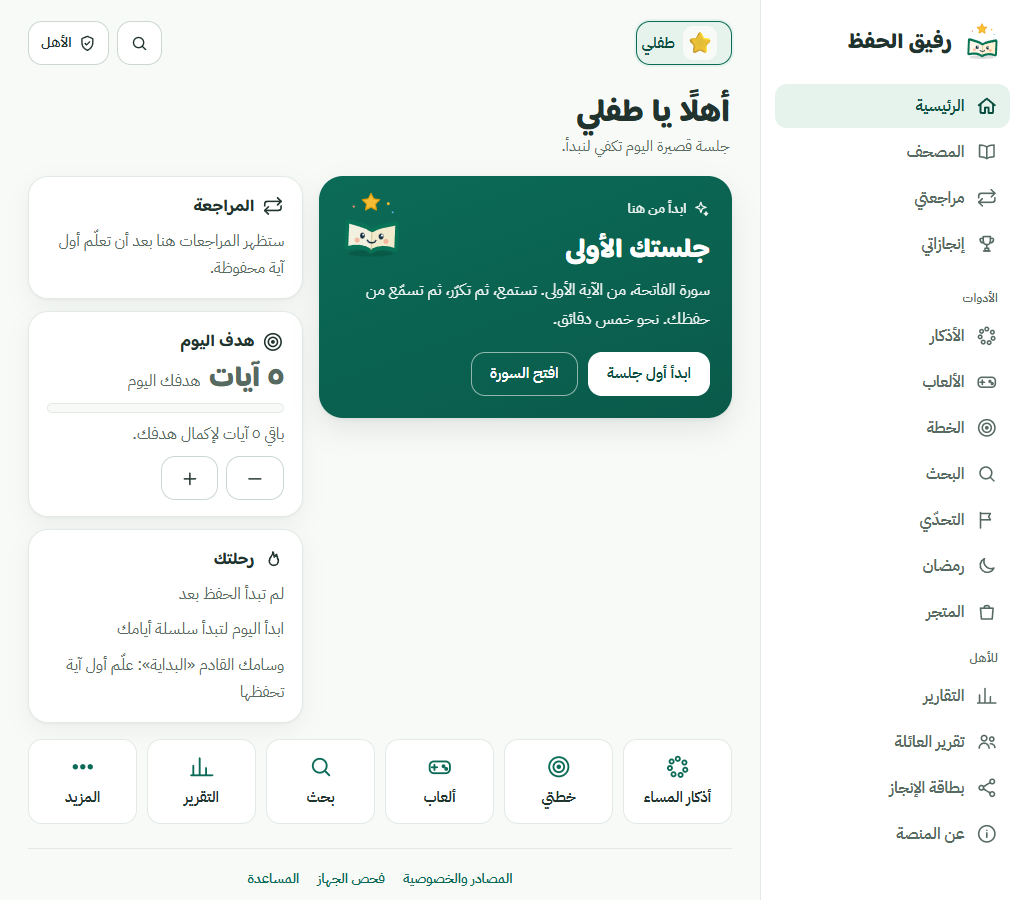
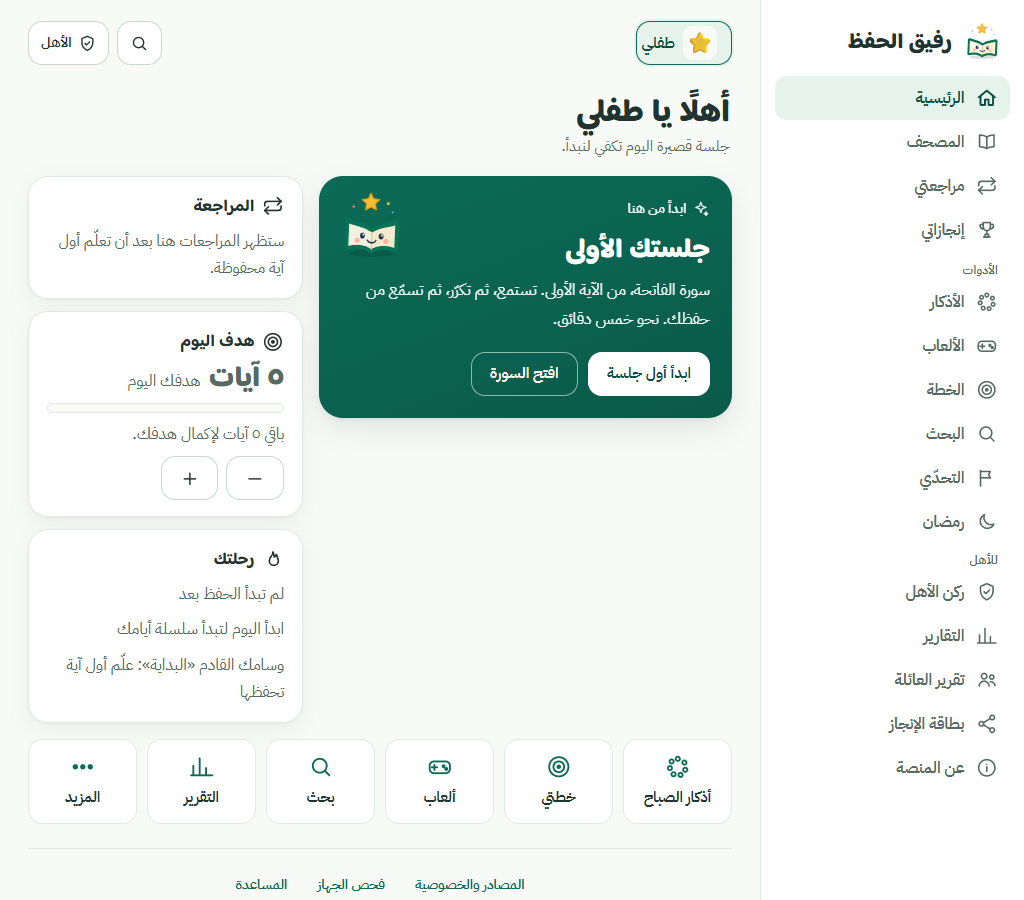
Remove functional emoji, mobile preview image, parents tests, a11y and e2e updated for the new pages

diff --git a/src/challenge.js b/src/challenge.js
@@ -1,7 +1,7 @@
 // The weekly challenge: one simple goal per week (weeks start on Saturday), measured from what the site already records
 // for the child (activity log and adhkar progress). Finishing it once gives bonus game stars and a medal. A "rest day"
 // (one per week) keeps the streak alive when the child needs a day off. Nothing here is religious text.
-import { $, AR, day, el, nujum, shiftDay } from './util.js';
+import { $, AR, day, el, nujum, shiftDay, icon } from './util.js';
 import { activeKid, kids, addGameStars, markWeekDone, weekDone, weeksDone, weekStartOf, restUsedThisWeek, restDays, useRestDay, streakNow, famDone, markFamilyWeek } from './state.js';
 import { celebrate } from './motion.js';
 
@@ -22,17 +22,17 @@ export function checkFamilyGoal() {
   const ws = weekStartOf(day()), g = familyGoalOf(kids(), ws);
   if (!g.on || !g.reached || famDone(ws)) return false;
   if (!markFamilyWeek(ws)) return false;
-  celebrate('ما شاء الله، حقّقتم هدف الأسرة معًا 🤝 ونلتم وسام «أسرة متعاونة»', true);
+  celebrate('ما شاء الله، حقّقتم هدف الأسرة معًا ونلتم وسام «أسرة متعاونة»', true);
   return true;
 }
 
 /** n: the target for readers, young: the target for young children. */
 export const CHALLENGES = [
-  { id: 'ayat', icon: '📖', title: n => 'احفظ ' + n + ' آيات جديدة', measure: 'a', n: 10, young: 5, unit: 'آية' },
-  { id: 'review', icon: '🔁', title: n => 'راجع ' + n + ' سور', measure: 'r', n: 3, young: 2, unit: 'مراجعة' },
-  { id: 'sabah', icon: '🌅', title: n => 'أنهِ أذكار الصباح في ' + n + ' أيام', measure: 'sabah', n: 5, young: 3, unit: 'يوم' },
-  { id: 'games', icon: '🎮', title: n => 'اجمع ' + n + ' نجمة في الألعاب', measure: 'g', n: 20, young: 10, unit: 'نجمة' },
-  { id: 'masaa', icon: '🌙', title: n => 'أنهِ أذكار المساء في ' + n + ' أيام', measure: 'masaa', n: 5, young: 3, unit: 'يوم' },
+  { id: 'ayat', icon: 'book', title: n => 'احفظ ' + n + ' آيات جديدة', measure: 'a', n: 10, young: 5, unit: 'آية' },
+  { id: 'review', icon: 'repeat', title: n => 'راجع ' + n + ' سور', measure: 'r', n: 3, young: 2, unit: 'مراجعة' },
+  { id: 'sabah', icon: 'sunrise', title: n => 'أنهِ أذكار الصباح في ' + n + ' أيام', measure: 'sabah', n: 5, young: 3, unit: 'يوم' },
+  { id: 'games', icon: 'gamepad', title: n => 'اجمع ' + n + ' نجمة في الألعاب', measure: 'g', n: 20, young: 10, unit: 'نجمة' },
+  { id: 'masaa', icon: 'moon', title: n => 'أنهِ أذكار المساء في ' + n + ' أيام', measure: 'masaa', n: 5, young: 3, unit: 'يوم' },
 ];
 
 /** The challenge of the week that starts on ws (the same one for everybody, rotating through the list). */
@@ -61,7 +61,7 @@ export function checkChallenge() {
   if (weekDone(ws) || progressOf(ch, k, ws) < targetOf(ch, k)) return false;
   if (!markWeekDone(ws)) return false;
   addGameStars(BONUS_STARS);
-  celebrate('ما شاء الله، أنهيتَ تحدّي الأسبوع 🏆 ونلتَ ' + nujum(BONUS_STARS) + ' للألعاب', true);
+  celebrate('ما شاء الله، أنهيتَ تحدّي الأسبوع ونلتَ ' + nujum(BONUS_STARS) + ' للألعاب', true);
   return true;
 }
 
@@ -71,26 +71,26 @@ export function renderChallenge() {
   const ws = weekStartOf(day()), ch = challengeOf(ws), n = targetOf(ch, k), v = progressOf(ch, k, ws), done = weekDone(ws) || v >= n;
 
   const card = el('section', 'chcard' + (done ? ' done' : ''));
-  const ic = el('span', 'chicon', ch.icon); ic.setAttribute('aria-hidden', 'true');
+  const ic = el('span', 'chicon'); ic.appendChild(icon(ch.icon)); ic.setAttribute('aria-hidden', 'true');
   card.append(ic, el('h2', '', 'تحدّي هذا الأسبوع'), el('p', 'chtitle', ch.title(AR(n))));
   const bar = el('div', 'bar'), fill = el('i'); fill.style.width = Math.round(v / n * 100) + '%'; bar.appendChild(fill);
   bar.setAttribute('role', 'progressbar'); bar.setAttribute('aria-valuemin', '0'); bar.setAttribute('aria-valuemax', String(n)); bar.setAttribute('aria-valuenow', String(v)); bar.setAttribute('aria-label', 'تقدّم التحدّي');
-  card.append(bar, el('p', done ? 'good' : 'note', done ? 'أنهيتَ التحدّي، أحسنت! 🏆' : AR(v) + ' من ' + AR(n) + ' ' + ch.unit + '. الجائزة: ' + nujum(BONUS_STARS) + ' للألعاب ووسام.'));
+  card.append(bar, el('p', done ? 'good' : 'note', done ? 'أنهيتَ التحدّي، أحسنت!' : AR(v) + ' من ' + AR(n) + ' ' + ch.unit + '. الجائزة: ' + nujum(BONUS_STARS) + ' للألعاب ووسام.'));
   const end = shiftDay(ws, 6), fmt = d => new Date(d + 'T12:00:00').toLocaleDateString('ar-EG', { day: 'numeric', month: 'long' });
   card.appendChild(el('p', 'note', 'من ' + fmt(ws) + ' إلى ' + fmt(end) + '. يتجدّد كل سبت.'));
   box.appendChild(card);
 
   const w = weeksDone();
-  box.appendChild(el('p', 'chweeks', w ? '🏆 أنهيتَ ' + (w === 1 ? 'تحدّي أسبوع واحد' : 'تحدّي ' + AR(w) + ' أسابيع') + ' حتى الآن.' : 'لم تُنهِ أي تحدٍّ بعد، ابدأ من هذا الأسبوع!'));
+  box.appendChild(el('p', 'chweeks', w ? 'أنهيتَ ' + (w === 1 ? 'تحدّي أسبوع واحد' : 'تحدّي ' + AR(w) + ' أسابيع') + ' حتى الآن.' : 'لم تُنهِ أي تحدٍّ بعد، ابدأ من هذا الأسبوع!'));
 
   // rest day
   const rest = el('section', 'chcard rest');
-  const ri = el('span', 'chicon', '🛌'); ri.setAttribute('aria-hidden', 'true');
+  const ri = el('span', 'chicon'); ri.appendChild(icon('bed')); ri.setAttribute('aria-hidden', 'true');
   rest.append(ri, el('h2', '', 'يوم راحة'), el('p', 'note', 'تعبان أو مسافر؟ يوم راحة واحد في الأسبوع يحافظ على أيامك المتتالية فلا تنقطع إن فاتك يوم.'));
-  rest.appendChild(el('p', '', '🔥 أيامك المتتالية الآن: ' + AR(streakNow())));
+  rest.appendChild(el('p', '', 'أيامك المتتالية الآن: ' + AR(streakNow())));
   const msg = el('p', 'note'); msg.setAttribute('role', 'status');
   const used = restUsedThisWeek(), today = !!restDays()[day()];
-  const b = el('button', 'btn' + (used ? '' : ' primary'), today ? 'اليوم يوم راحة ✓' : used ? 'استخدمتَ يوم الراحة هذا الأسبوع' : 'اجعل اليوم يوم راحة');
+  const b = el('button', 'btn' + (used ? '' : ' primary'), today ? 'اليوم يوم راحة' : used ? 'استخدمتَ يوم الراحة هذا الأسبوع' : 'اجعل اليوم يوم راحة');
   b.type = 'button'; b.disabled = used;
   b.addEventListener('click', () => { if (useRestDay()) { msg.textContent = 'تم. اليوم يوم راحة، وأيامك المتتالية محفوظة.'; renderChallenge() } });
   rest.append(b, msg);

diff --git a/tests/parents.test.js b/tests/parents.test.js
@@ -1,0 +1,103 @@
+import { describe, it, expect, afterEach, vi } from 'vitest';
+import { boot, today, memoriseAll } from './helpers.js';
+
+afterEach(() => { vi.useRealTimers(); vi.unstubAllGlobals() });
+
+const DOM = '<div id="kids"></div><button id="parentBtn"></button><button id="parentsLock"></button><dialog id="gate"><form id="gateForm"><p id="gateQ"></p><input id="gateA"><p id="gateErr" hidden></p></form></dialog><nav id="parentTabs"></nav><div id="parentBody"></div>';
+async function page(setup) {
+  today('2026-05-12');
+  HTMLDialogElement.prototype.showModal = function () { this.setAttribute('open', '') };
+  HTMLDialogElement.prototype.close = function () { this.removeAttribute('open') };
+  document.body.innerHTML = DOM; sessionStorage.clear();
+  const { state, Q } = await boot();
+  if (setup) setup(state, Q);
+  const p = await import('../src/parents.js'), pin = await import('../src/pin.js');
+  p.initParents();
+  return { state, Q, p, pin };
+}
+const tab = id => document.querySelector('#parentTabs [data-tab="' + id + '"]');
+const body = () => document.getElementById('parentBody');
+
+describe('the gate', () => {
+  it('keeps the page closed until it is passed, and asks a multiplication question when there is no PIN', async () => {
+    const { p } = await page();
+    expect(p.showParents()).toBe(false);
+    expect(document.getElementById('gate').hasAttribute('open')).toBe(true);
+    expect(document.getElementById('gateQ').textContent).toMatch(/×/);
+    expect(document.getElementById('gateA').type).toBe('number');
+  });
+
+  it('opens after the right answer and stays open for a while, a wrong answer shows an error', async () => {
+    const { p, pin } = await page();
+    p.showParents();
+    const nums = document.getElementById('gateQ').textContent.match(/[٠-٩]+/g).map(s => +s.replace(/[٠-٩]/g, d => '٠١٢٣٤٥٦٧٨٩'.indexOf(d)));
+    document.getElementById('gateA').value = String(nums[0] * nums[1] + 1);
+    document.getElementById('gateForm').dispatchEvent(new Event('submit', { cancelable: true }));
+    await Promise.resolve(); await Promise.resolve();
+    expect(document.getElementById('gateErr').hidden).toBe(false); expect(pin.parentsOpen()).toBe(false);
+    document.getElementById('gateA').value = String(nums[0] * nums[1]);
+    document.getElementById('gateForm').dispatchEvent(new Event('submit', { cancelable: true }));
+    await Promise.resolve(); await Promise.resolve();
+    expect(pin.parentsOpen()).toBe(true);
+    expect(p.showParents()).toBe(true);
+  });
+
+  it('asks for the PIN, as a password field, when one is set', async () => {
+    const { p, pin } = await page();
+    await pin.setPin('2468');
+    p.showParents();
+    expect(document.getElementById('gateQ').textContent).toContain('رمز');
+    expect(document.getElementById('gateA').type).toBe('password');
+  });
+});
+
+describe('the hub', () => {
+  const open = async setup => { const r = await page(setup); r.pin.unlockParents(); expect(r.p.showParents()).toBe(true); return r };
+
+  it('has five sections and shows one at a time', async () => {
+    await open();
+    expect([...document.querySelectorAll('#parentTabs button')].map(b => b.dataset.tab)).toEqual(['children', 'track', 'settings', 'downloads', 'data']);
+    expect(tab('children').getAttribute('aria-pressed')).toBe('true');
+    tab('track').click();
+    expect(tab('track').getAttribute('aria-pressed')).toBe('true'); expect(body().textContent).toContain('أرقام حقيقية');
+  });
+
+  it('adds a child and deletes one only after asking', async () => {
+    const { state } = await open();
+    [...body().querySelectorAll('button')].find(b => b.textContent.includes('إضافة طفل')).click();
+    expect(state.kids()).toHaveLength(2);
+    vi.stubGlobal('confirm', vi.fn(() => false));
+    const del = () => [...body().querySelectorAll('button')].find(b => b.textContent.includes('حذف الملف'));
+    del().click(); expect(state.kids()).toHaveLength(2);
+    vi.stubGlobal('confirm', vi.fn(() => true)); del().click(); expect(state.kids()).toHaveLength(1);
+  });
+
+  it('shows each child\'s own real numbers, and nothing for a child who has done nothing', async () => {
+    const { state, Q } = await open();
+    memoriseAll(state, Q, 112); state.save();
+    state.addKid({ name: 'نور', icon: '🌸', mode: 'young' });
+    tab('track').click();
+    const cards = [...body().querySelectorAll('.kcard')];
+    expect(cards).toHaveLength(2);
+    expect(cards[0].textContent).toContain('٤'); expect(cards[0].textContent).toContain('١ من ١١٤');
+    expect(cards[1].textContent).toContain('لا توجد خطة');
+    expect(cards[1].querySelector('dd').textContent).toBe('٠');
+  });
+
+  it('names go in as plain text', async () => {
+    await open(st => st.updateKid(st.activeKid().id, { name: '<i>x</i>', icon: '🌸', mode: 'reader' }));
+    expect(body().querySelector('i')).toBeNull(); expect(body().textContent).toContain('<i>x</i>');
+  });
+
+  it('the settings section can set a PIN and says what it is for', async () => {
+    const { pin } = await open();
+    tab('settings').click();
+    expect(body().textContent).toContain('ليس حسابًا');
+    document.getElementById('pinNew').value = '12';
+    [...body().querySelectorAll('button')].find(b => b.textContent === 'اضبط الرمز').click();
+    expect(body().textContent).toContain('من ٤ إلى ٦'); expect(pin.hasPin()).toBe(false);
+    document.getElementById('pinNew').value = '4821';
+    [...body().querySelectorAll('button')].find(b => b.textContent === 'اضبط الرمز').click();
+    await vi.waitFor(() => expect(pin.hasPin()).toBe(true));
+  });
+});

diff --git a/src/ramadan.js b/src/ramadan.js
@@ -2,7 +2,7 @@
 // fills in by itself from what the child did each day (a new ayah, a review, adhkar or a game), and medals reward steadiness.
 // The calendar is calculated, so a country that sights the moon can differ by a day: a parent can shift it by one day.
 // Nothing here is religious text; it is a calendar and a habit tracker.
-import { $, AR, day, el, shiftDay, charImg } from './util.js';
+import { $, AR, day, el, shiftDay, charImg, icon } from './util.js';
 import { activeKid, setRamadanDays } from './state.js';
 
 const SHIFT_KEY = 'hifz-hijri-shift-v1';
@@ -83,10 +83,10 @@ export function renderRamadan() {
   const fmtDate = iso => new Date(iso + 'T12:00:00').toLocaleDateString('ar-EG', { day: 'numeric', month: 'long' });
 
   const card = el('section', 'ramcard');
-  const ic = el('span', 'chicon', '🌙'); ic.setAttribute('aria-hidden', 'true');
+  const ic = el('span', 'chicon'); ic.appendChild(icon('moon')); ic.setAttribute('aria-hidden', 'true');
   card.append(ic, el('h2', '', w.phase === 'during' ? 'اليوم ' + AR(w.dayNo) + ' من رمضان' : w.phase === 'before' ? 'رمضان بعد ' + (w.daysUntil === 1 ? 'يوم واحد' : w.daysUntil === 2 ? 'يومين' : AR(w.daysUntil) + (w.daysUntil <= 10 ? ' أيام' : ' يومًا')) : 'انتهى رمضان'));
   card.appendChild(el('p', 'note', 'اليوم: ' + hijriText(todayH) + '. رمضان ' + AR(w.year).replace(/٬/g, '') + ' هـ من ' + fmtDate(w.start) + ' إلى ' + fmtDate(w.end) + ' (بحسب التقويم المحسوب).'));
-  if (w.phase === 'after') card.appendChild(el('p', 'good', 'كل عام وأنتم بخير! 🌙'));
+  if (w.phase === 'after') card.appendChild(el('p', 'good', 'كل عام وأنتم بخير!'));
   box.appendChild(card);
 
   if (w.phase !== 'before') {
@@ -98,7 +98,7 @@ export function renderRamadan() {
       const word = p.state === 'done' ? 'أنجزتَ نشاطًا' : p.state === 'missed' ? 'لم يُسجَّل نشاط' : p.state === 'today' ? 'اليوم' : 'لم يحن بعد';
       li.setAttribute('aria-label', 'اليوم ' + AR(p.no) + ': ' + word); if (p.state === 'done') li.appendChild(el('span', 'ramtick', '✓')); grid.appendChild(li);
     });
-    sec.append(grid, el('p', 'chweeks', '🌙 أنجزتَ ' + AR(t.active) + ' من ' + AR(w.days.length) + ' يومًا.'));
+    sec.append(grid, el('p', 'chweeks', 'أنجزتَ ' + AR(t.active) + ' من ' + AR(w.days.length) + ' يومًا.'));
     sec.appendChild(el('p', 'note', 'الأوسمة: «رمضان معنا» عند ' + AR(10) + ' أيام، و«بطل رمضان» عند ' + AR(25) + ' يومًا.'));
     box.appendChild(sec);
   } else {
@@ -122,7 +122,7 @@ export function ramadanLine() {
   const k = activeKid(), w = ramadanWindow(); if (!k || !showBanner(w)) return null;
   const a = el('a', 'rambanner'); a.href = '#/ramadan';
   a.append(charImg('fanous', 'mini'));
-  const t = el('span', ''), b = el('b', '', w.phase === 'during' ? 'رمضان كريم 🌙 اليوم ' + AR(w.dayNo) + ' من ' + AR(w.days.length) : w.phase === 'before' ? 'يقترب رمضان 🌙 بعد ' + AR(w.daysUntil) + (w.daysUntil === 1 ? ' يوم' : w.daysUntil <= 10 ? ' أيام' : ' يومًا') : 'كل عام وأنتم بخير 🌙');
+  const t = el('span', ''), b = el('b', '', w.phase === 'during' ? 'رمضان كريم، اليوم ' + AR(w.dayNo) + ' من ' + AR(w.days.length) : w.phase === 'before' ? 'يقترب رمضان، بعد ' + AR(w.daysUntil) + (w.daysUntil === 1 ? ' يوم' : w.daysUntil <= 10 ? ' أيام' : ' يومًا') : 'كل عام وأنتم بخير');
   t.append(b, el('small', '', w.phase === 'before' ? 'استعدّ لتحدّي رمضان' : 'افتح تحدّي رمضان'));
   a.appendChild(t); return a;
 }

diff --git a/src/diagnose.js b/src/diagnose.js
@@ -6,7 +6,8 @@ import { loadAdhkar } from './data.js';
 import { ayahUrl } from './player.js';
 
 const BUILD = typeof __BUILD__ !== 'undefined' ? __BUILD__ : 'dev';
-const MARK = { ok: '✅', warn: '⚠', bad: '❌' };
+const MARK = { ok: 'سليم', warn: 'تنبيه', bad: 'مشكلة' };       // words, for the copied report
+const GLYPH = { ok: '✓', warn: '!', bad: '✕' };               // plain marks on the screen (the colour is never the only sign)
 
 /** Runs every check. env can be replaced in tests; each check is wrapped so one failing never stops the others. */
 export async function runChecks(env = {}) {
@@ -87,7 +88,7 @@ export async function runChecks(env = {}) {
 }
 
 export function reportText(rows, ua = '') {
-  return ['فحص جهاز: رفيق الحفظ', ...rows.map(r => MARK[r.status] + ' ' + r.label + ': ' + r.detail), ua ? 'المتصفح: ' + ua : ''].filter(Boolean).join('\n');
+  return ['فحص جهاز: رفيق الحفظ', ...rows.map(r => MARK[r.status] + ' · ' + r.label + ': ' + r.detail), ua ? 'المتصفح: ' + ua : ''].filter(Boolean).join('\n');
 }
 
 /** Plays the first ayah of Al-Fatiha for a moment and says whether sound came out. */
@@ -109,7 +110,7 @@ export function initCheck() {
   const paint = rows => {
     rowsBox.textContent = '';
     rows.forEach(r => {
-      const li = el('li', 'chkrow ' + r.status), m = el('span', 'chkmark', MARK[r.status]); m.setAttribute('aria-hidden', 'true');
+      const li = el('li', 'chkrow ' + r.status), m = el('span', 'chkmark', GLYPH[r.status]); m.setAttribute('aria-hidden', 'true');
       const t = el('div'); t.append(el('b', '', r.label), el('span', '', r.detail));
       li.append(m, el('span', 'sr', r.status === 'ok' ? 'سليم: ' : r.status === 'warn' ? 'تنبيه: ' : 'مشكلة: '), t); rowsBox.appendChild(li);
     });
@@ -118,11 +119,11 @@ export function initCheck() {
     run.disabled = true; msg.textContent = 'جارٍ الفحص…';
     last = await runChecks(); paint(last); run.disabled = false; copy.hidden = false;
     const bad = last.filter(r => r.status === 'bad').length, warn = last.filter(r => r.status === 'warn').length;
-    msg.textContent = bad ? 'وُجدت ' + AR(bad) + ' مشكلة. اقرأ التفاصيل أعلاه.' : warn ? 'لا مشاكل، وهناك ' + AR(warn) + ' تنبيه للتحسين.' : 'كل شيء سليم ✅';
+    msg.textContent = bad ? 'وُجدت ' + AR(bad) + ' مشكلة. اقرأ التفاصيل أعلاه.' : warn ? 'لا مشاكل، وهناك ' + AR(warn) + ' تنبيه للتحسين.' : 'كل شيء سليم';
   });
   $('chkAudio').addEventListener('click', async () => {
     msg.textContent = 'جارٍ اختبار الصوت…';
-    const r = await testAudio(); msg.textContent = (r.ok ? '✅ ' : '❌ ') + r.why;
+    const r = await testAudio(); msg.textContent = (r.ok ? 'سليم: ' : 'مشكلة: ') + r.why;
     last = last.filter(x => x.id !== 'audio'); last.push({ id: 'audio', label: 'تشغيل التلاوة', status: r.ok ? 'ok' : 'bad', detail: r.why }); paint(last); copy.hidden = false;
   });
   copy.addEventListener('click', async () => {

diff --git a/src/offlineui.js b/src/offlineui.js
@@ -1,5 +1,5 @@
 // The screens for downloading recitations: a box under the surah (download, progress, remove) and the list in the parent corner.
-import { $, AR, el } from './util.js';
+import { $, AR, el, icon } from './util.js';
 import { Q } from './data.js';
 import { currentReciter, reciterLabel } from './player.js';
 import { supported, estimateBytes, isBig, mb, downloadedInfo, downloadSurah, removeSurah, removeAll, listDownloads, totalBytes } from './offline.js';
@@ -19,7 +19,7 @@ export function renderOffline(id) {
   if (!supported() || !Q.length || !id) { box.hidden = true; return }
   box.hidden = false;
   const reciter = currentReciter(), who = reciterLabel(reciter), c = Q[id - 1];
-  box.appendChild(el('h2', '', '🎧 الاستماع بدون إنترنت'));
+  { const h = el('h2'); h.append(icon('headphones'), 'الاستماع بدون إنترنت'); box.appendChild(h) }
   const msg = el('p', 'note'); msg.setAttribute('role', 'status');
   const acts = el('div', 'acts');
 
@@ -34,7 +34,7 @@ export function renderOffline(id) {
 
   const info = downloadedInfo(id, reciter);
   if (info) {
-    box.appendChild(el('p', 'good', '✅ سورة ' + c.n + ' بصوت ' + who + ' محمّلة (' + AR(mb(info.bytes)) + ' م.ب.) وتعمل بدون إنترنت.'));
+    box.appendChild(el('p', 'good', 'سورة ' + c.n + ' بصوت ' + who + ' محمّلة (' + AR(mb(info.bytes)) + ' م.ب.) وتعمل بدون إنترنت.'));
     const del = el('button', 'btn', 'احذف التنزيل'); del.type = 'button';
     del.addEventListener('click', async () => { await removeSurah(id, reciter); renderOffline(id); const m = $('offline').querySelector('[role=status]'); if (m) m.textContent = 'تم حذف التنزيل.' });
     acts.appendChild(del); box.append(acts, msg); return;
@@ -42,7 +42,7 @@ export function renderOffline(id) {
 
   const bytes = estimateBytes(id, reciter);
   box.appendChild(el('p', 'note', 'نزّل سورة ' + c.n + ' بصوت ' + who + ' لتسمعها في أي مكان بلا إنترنت. الحجم حوالي ' + AR(mb(bytes)) + ' م.ب.'));
-  const go = el('button', 'btn primary', '⬇ نزّل السورة'); go.type = 'button';
+  const go = el('button', 'btn primary'); go.append(icon('download'), 'نزّل السورة'); go.type = 'button';
   go.addEventListener('click', async () => {
     if (isBig(bytes) && !confirm('هذه سورة كبيرة (حوالي ' + AR(mb(bytes)) + ' م.ب.). يفضّل التنزيل على شبكة واي فاي. هل تكمل؟')) return;
     job = { id, reciter, ctrl: new AbortController(), done: 0, total: 1, paint: null };
@@ -51,7 +51,7 @@ export function renderOffline(id) {
     job = null;
     const shown = $('offline') && !$('offline').hidden;
     if (shown) renderOffline(id);
-    if (r.ok) announce('تم تنزيل سورة ' + c.n + ' 🎧');
+    if (r.ok) announce('تم تنزيل سورة ' + c.n);
     else { const m = $('offline') && $('offline').querySelector('[role=status]'); if (m) m.textContent = WHY[r.error] || WHY.network }
   });
   acts.appendChild(go);

diff --git a/index.html b/index.html
@@ -158,7 +158,7 @@
     <section class="lsec preview" aria-labelledby="prevT">
       <h2 id="prevT">هكذا تبدو التجربة</h2>
       <p class="lead">لقطة حقيقية من التطبيق لطفل جديد، بلا أرقام مختلقة.</p>
-      <figure><img src="/preview/dashboard.png" alt="الشاشة الرئيسية للطفل: بطاقة جلسة اليوم وزر ابدأ الجلسة، وتحتها المراجعات وهدف اليوم" width="1024" height="900" loading="lazy"></figure>
+      <figure><picture><source media="(max-width:640px)" srcset="./preview/dashboard-mobile.png" width="390" height="800"><img src="/preview/dashboard.png" alt="الشاشة الرئيسية للطفل: بطاقة جلسة اليوم وزر ابدأ الجلسة، وتحتها المراجعات وهدف اليوم" width="1024" height="900" loading="lazy"></picture></figure>
     </section>
 
     <section class="lsec" aria-labelledby="parT">
@@ -284,7 +284,7 @@
     <div class="noprint certbar">
       <a class="btn" href="#/dashboard">→ رجوع</a>
       <span class="weektabs" id="repWeeks"><a class="btn" href="#/report" data-off="0">هذا الأسبوع</a> <a class="btn" href="#/report/1" data-off="1">الأسبوع الماضي</a></span>
-      <button type="button" class="btn" id="shareReport">📤 شارك كصورة</button>
+      <button type="button" class="btn" id="shareReport">شارك كصورة</button>
       <button type="button" class="btn primary" id="printReport">طباعة التقرير</button>
     </div>
     <p class="note noprint" id="shareReportMsg" role="status"></p>

diff --git a/src/remind.js b/src/remind.js
@@ -9,10 +9,10 @@ const WINDOW_MIN = 180;      // a reminder is still shown up to three hours afte
 const TIME = /^([01]\d|2[0-3]):[0-5]\d$/;
 
 export const SLOTS = [
-  { id: 'sabah', label: 'أذكار الصباح', def: '06:30', url: '#/adhkar/sabah', body: () => 'حان وقت أذكار الصباح 🌅' },
-  { id: 'masaa', label: 'أذكار المساء', def: '17:00', url: '#/adhkar/masaa', body: () => 'حان وقت أذكار المساء 🌙' },
-  { id: 'nawm', label: 'أذكار النوم', def: '21:30', url: '#/adhkar/nawm', body: () => 'حان وقت أذكار النوم 😴' },
-  { id: 'review', label: 'مراجعة اليوم', def: '18:00', url: '#/review', body: () => 'عندك مراجعة اليوم 🔁' },
+  { id: 'sabah', label: 'أذكار الصباح', def: '06:30', url: '#/adhkar/sabah', body: () => 'حان وقت أذكار الصباح' },
+  { id: 'masaa', label: 'أذكار المساء', def: '17:00', url: '#/adhkar/masaa', body: () => 'حان وقت أذكار المساء' },
+  { id: 'nawm', label: 'أذكار النوم', def: '21:30', url: '#/adhkar/nawm', body: () => 'حان وقت أذكار النوم' },
+  { id: 'review', label: 'مراجعة اليوم', def: '18:00', url: '#/review', body: () => 'عندك مراجعة اليوم' },
 ];
 
 const fresh = () => ({ on: false, slots: Object.fromEntries(SLOTS.map(s => [s.id, { on: true, t: s.def }])), fired: {} });

diff --git a/src/family.js b/src/family.js
@@ -37,7 +37,7 @@ export function renderFamily() {
     const card = el('section', 'famgoal' + (famDone(ws) || goal.reached ? ' won' : ''));
     const bar = el('div', 'bar'), fill = el('i'); fill.style.width = Math.round(goal.total / goal.target * 100) + '%'; bar.appendChild(fill);
     bar.setAttribute('role', 'progressbar'); bar.setAttribute('aria-valuemin', '0'); bar.setAttribute('aria-valuemax', String(goal.target)); bar.setAttribute('aria-valuenow', String(goal.total)); bar.setAttribute('aria-label', 'هدف الأسرة');
-    card.append(el('h2', '', '🤝 هدف الأسرة هذا الأسبوع'),
+    card.append(el('h2', '', 'هدف الأسرة هذا الأسبوع'),
       el('p', 'famgoaltext', 'احفظوا معًا ' + AR(goal.target) + ' آية جديدة'),
       bar,
       el('p', 'note', famDone(ws) || goal.reached ? 'حقّقتم الهدف معًا، أحسنتم! نال كل طفل وسام «أسرة متعاونة».' : AR(goal.total) + ' من ' + AR(goal.target) + ' آية. كل آية جديدة من أي طفل تُحسب، فتعاونوا! (' + AR(FAMILY_PER_KID.reader) + ' لكل قارئ و' + AR(FAMILY_PER_KID.young) + ' لكل صغير.)'));

diff --git a/src/home.js b/src/home.js
@@ -5,15 +5,6 @@ import { mem, isDue, readPos, bookmarks, pinned } from './state.js';
 let filter = 'all';
 export const setFilter = f => { filter = f };
 
-/** What Rafiq says to the child, depending on how the day is going. */
-export function moodText(ayat, goal, doneToday, dueCount, weakCount) {
-  if (doneToday >= goal) return 'ما شاء الله! خلّصتَ وردك اليوم 🎉';
-  if (dueCount) return 'عندك ' + (dueCount === 1 ? 'سورة' : AR(dueCount) + ' سور') + ' تنتظر المراجعة 🔁';
-  if (weakCount) return 'تعال نثبّت الآيات اللي تحتاج تثبيتًا 💪';
-  if (doneToday > 0) return 'أحسنت! باقي ' + AR(goal - doneToday) + ' للورد 🌟';
-  return ayat ? 'جاهز لورد اليوم؟ يلا! 😄' : 'يلا نبدأ أول آية معًا! 🌱';
-}
-
 const MODE_NAME = { read: 'قراءة', listen: 'استماع', memorise: 'حفظ', recite: 'تسميع' };
 
 /** The top of the mushaf page: where the child stopped, bookmarks and pinned surahs. Nothing is shown for a child who has none of them. */

diff --git a/src/plan.js b/src/plan.js
@@ -75,7 +75,7 @@ export function planStats(p) {
   const daily = left === 0 ? 0 : mLeft > 0 ? Math.ceil(left / mLeft) : left;
   const next = ids.find(id => mem(id) < Q[id - 1].v.length) || 0;
   const pace = p.a || Math.max(1, Math.ceil(total / Math.max(1, memDays(p.start, end, mask))));   // the pace the plan was made for
-  return { pr, total, left, done: total - left, end, daysLeft, daily, next, overdue: left > 0 && daysLeft === 0, memDaysLeft: mLeft, kindToday: kindOn(p), pace, behind: left > 0 && daily > pace, ids };
+  return { pr, total, left, done: total - left, end, daysLeft, daily, next, overdue: left > 0 && daysLeft === 0, memDaysLeft: mLeft, kindToday: kindOn(p), pace, behind: left > 0 && daily >= pace + Math.max(2, Math.ceil(pace * 0.2)), ids };
 }
 
 /** Spreads a late plan over more weeks, at the pace it was made for. Never touches progress and never raises today's amount. Returns {plan, added} or null. */

diff --git a/src/backupui.js b/src/backupui.js
@@ -68,6 +68,6 @@ export function backupSection(onChange) {
     drop.addEventListener('click', () => { dropRestorePoint(); box.remove() });
     const a = el('div', 'acts'); a.append(back, drop); box.appendChild(a); card.appendChild(box);
   }
-  if (!storageState.ok) card.appendChild(el('p', 'note', '⚠ الحفظ على هذا الجهاز لا يعمل الآن، فالتصدير هو الطريقة الوحيدة لحفظ تقدّمك.'));
+  if (!storageState.ok) card.appendChild(el('p', 'note', 'الحفظ على هذا الجهاز لا يعمل الآن، فالتصدير هو الطريقة الوحيدة لحفظ تقدّمك.'));
   return card;
 }

diff --git a/tests/diagnose.test.js b/tests/diagnose.test.js
@@ -61,7 +61,7 @@ describe('device check', () => {
     const d = await setup();
     const text = d.reportText(await d.runChecks(goodEnv()), 'TestBrowser/1');
     expect(text.split('\n')[0]).toBe('فحص جهاز: رفيق الحفظ');
-    expect(text).toContain('✅ العمل بدون إنترنت'); expect(text).toContain('المتصفح: TestBrowser/1');
+    expect(text).toContain('سليم · العمل بدون إنترنت'); expect(text).toContain('المتصفح: TestBrowser/1');
   });
 });
 
